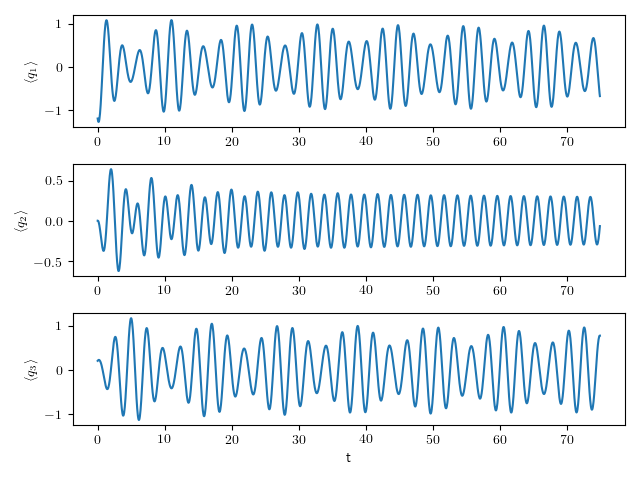
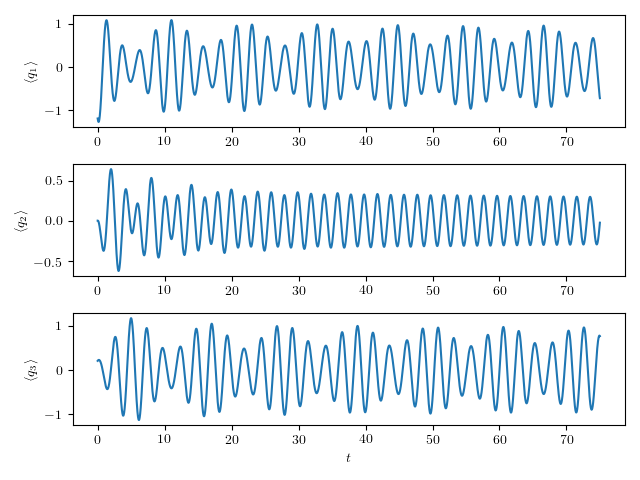
Two possible versions
One must be deleted at some point

diff --git a/Python/MomentSims.py b/Python/MomentSims.py
@@ -5,8 +5,10 @@ from matplotlib import pyplot as plt
 matplotlib.rcParams['text.usetex'] = True
 
 N = 3
-T_F = 45
+T_F = 75
 it = 15000
+it_med = it * 45//T_F
+it_short = it * 15//T_F
 dt = T_F/it
 T = np.arange(0, T_F, dt)
 
@@ -14,8 +16,8 @@ T = np.arange(0, T_F, dt)
 # should be to classify as noiseless
 quasi_ratio = 20
 
-# omega = np.array([1.2, 1, 1.8])
-omega = np.ones(N)
+omega = np.array([1.2, 1, 1.8])
+# omega = np.ones(N)
 temp = 10 * omega[1]
 gamma = 0.07 * omega[1]
 
@@ -29,7 +31,7 @@ LambdaM2 = 0.4 * omega[1] * np.array([
     [1, 0, 1],
     [0, 1, 0]
 ])
-Lambda = LambdaM2 * 4  # The adjacency matrix which we are currently investigating
+Lambda = LambdaM2  # The adjacency matrix which we are currently investigating
 
 k_m = np.max(np.sum(Lambda, 0))  # Constant to assure positivity
 HO = np.diag(omega**2 + 2 * k_m)
@@ -81,7 +83,7 @@ for i in range(N):
 # The constant vector to be added (dY/dt = B*Y + L)
 L = np.zeros(2*M + N**2)
 for i in range(N):
-    L[num(i, i)] = - D[i]/2/Omega[i]**2  # I derived a - sign, but let's try +
+    L[num(i, i)] = + D[i]/2/Omega[i]**2  # I derived a - sign, but let's try +
     L[num(i, i) + M] = D[i]/2
 
 
@@ -214,6 +216,11 @@ def calc_u(pos, mom, n):
     return U_0 * np.exp(-Gamma[n] * T)
 
 
+def calc_u_2(pos, mom, n):
+    U_0 = Omega[n]**2 * pos[num(n, n), 0] + mom[num(n, n), 0]
+    return (U_0-D[n]/Gamma[n]) * np.exp(-Gamma[n] * T) + D[n]/Gamma[n]  # Last term if the + is correct
+
+
 def calc_v(pos, mom, n, r=None):
     m = num(n, n)
     U_0 = Omega[n]**2 * pos[m, 0] + mom[m, 0]
@@ -224,13 +231,21 @@ def calc_v(pos, mom, n, r=None):
                                             B_n * np.cos(2*Omega[n]*T))
 
 
+def calc_v_2(pos, mom, n, r=None):
+    m = num(n, n)
+    B_n = Omega[n]**2 * pos[m, 0] - mom[m, 0]
+    A_n = Omega[n] * (r[(N+1)*n, 0] if r is not None else 0)
+    return np.exp(-Gamma[n]*T) * (A_n * np.sin(2*Omega[n]*T) +
+                                  B_n * np.cos(2*Omega[n]*T))
+
+
 def first_plot_combined(funcs, name):
     for n in range(N):
         plt.plot(T, funcs[n])
 
     plt.legend([f"Node {n + 1}" for n in range(N)])
     plt.ylabel(f"$\\left<{name}_i\\right>$")
-    plt.xlabel("t")
+    plt.xlabel("$t$")
     plt.show()
     
     
@@ -251,17 +266,17 @@ def first_plot_separate(funcs, name, colorized=False, mom=None):
         
         plt.ylabel(f"$\\left<{name}_{n + 1}\\right>$")
         
-    plt.xlabel("t")
+    plt.xlabel("$t$")
     plt.show()
 
 
 def second_plot_combined(funcs, name):
     for m in range(M):
-        plt.plot(T, funcs[m])
+        plt.plot(T[:it_med], funcs[m, :it_med])
 
     plt.legend([f"Node {(n, m)}" for n in range(N) for m in range(n, N)])
     plt.ylabel(f"$\\left<{name}_i {name}_j\\right>$")
-    plt.xlabel("t")
+    plt.xlabel("$t$")
     plt.show()
 
 
@@ -275,12 +290,12 @@ def second_plot_separate(funcs, name, colorized=False):
             if n == m:
                 color = color_pick(n) if colorized else ""
 
-                plt.xlabel("t")
+                plt.xlabel("$t$")
                 plt.ylabel(f"$\\left<{name}_{n + 1}^2\\right>$")
             else:
                 plt.ylabel(f"$\\left<{name}_{n + 1} {name}_{m + 1}\\right>$")
 
-            plt.plot(T, funcs[num(n, m)], color)
+            plt.plot(T[:it_short], funcs[num(n, m), :it_short], color)
     
     plt.show()
 
@@ -291,15 +306,15 @@ def second_plot_diagonal(pos, name, colorized=False, mom=None, r=None):
 
         color = color_pick(n) if colorized else ""
         
-        plt.plot(T, pos[num(n, n)], color)
+        plt.plot(T[:it_med], pos[num(n, n), :it_med], color)
         
         if mom is not None:
-            plt.plot(T, (calc_u(pos, mom, n) + calc_v(pos, mom, n, r))/2/Omega[n]**2, "k:")
+            plt.plot(T[:it_med], ((calc_u_2(pos, mom, n) + calc_v_2(pos, mom, n, r))/2/Omega[n]**2)[:it_med], "k:")
             plt.legend(["Solution", "Expected"])
         
         plt.ylabel(f"$\\left<{name}_{n + 1}^2\\right>$")
 
-    plt.xlabel("t")
+    plt.xlabel("$t$")
     plt.show()
 
 
@@ -310,9 +325,10 @@ def second_plot_cross(funcs, name):
         for m in range(n + 1, N):
             plt.subplot(M - N, 1, index)
             index += 1
-            plt.plot(T, funcs[num(n, m)])
+            plt.plot(T[:it_med], funcs[num(n, m), :it_med])
             plt.ylabel(f"$\\left<{name}_{n + 1}{name}_{m + 1}\\right>$")
-            
+    
+    plt.xlabel("$t$")
     plt.show()
 
 
@@ -322,14 +338,14 @@ def second_plot_u(qq, pp, name1, name2, colorized=False, expect=False):
 
         color = color_pick(n) if colorized else ""
         
-        plt.plot(T, Omega[n]**2 * qq[num(n, n)] + pp[num(n, n)], color)
+        plt.plot(T[:it_med], (Omega[n]**2 * qq[num(n, n)] + pp[num(n, n)])[:it_med], color)
         plt.ylabel(f"$\\left<\\Omega_{n + 1}^2 {name1}_{n + 1}^2 + {name2}_{n + 1}^2\\right>$")
         
         if expect:
-            plt.plot(T, calc_u(qq, pp, n), "k:")
+            plt.plot(T[:it_med], calc_u_2(qq, pp, n)[:it_med], "k:")
             plt.legend(["Solution", "Expected"])
             
-    plt.xlabel("t")
+    plt.xlabel("$t$")
     plt.show()
 
 
@@ -339,16 +355,16 @@ def second_plot_v(qq, pp, name1, name2, colorized=False, expect=False):
 
         color = color_pick(n) if colorized else ""
 
-        plt.plot(T, Omega[n]**2 * qq[num(n, n)] - pp[num(n, n)], color)
-        plt.plot(T, -C[n] * np.ones(it),
+        plt.plot(T[:it_med], (Omega[n]**2 * qq[num(n, n)] - pp[num(n, n)])[:it_med], color)
+        plt.plot(T[:it_med], -C[n] * np.ones(it)[:it_med],
                  linestyle="dashed", color="lightgray")
         plt.ylabel(f"$\\left<\\Omega_{n + 1}^2 {name1}_{n + 1}^2 - {name2}_{n + 1}^2\\right>$")
 
         if expect:
-            plt.plot(T, calc_v(qq, pp, n), "k:")
+            plt.plot(T[:it_med], calc_v(qq, pp, n)[:it_med], "k:")
             plt.legend(["Solution", "Offset (expected)", "Expected"])
 
-    plt.xlabel("t")
+    plt.xlabel("$t$")
     plt.show()
 
 
@@ -368,9 +384,9 @@ first_plot_separate(nodes, "q")
 first_plot_separate(modes, "Q", True)
 
 nodes, modes, momenta = second_order()
-# second_plot_separate(nodes, "q")
-# second_plot_separate(modes, "Q", True)
-# second_plot_diagonal(modes, "Q", True)
-# second_plot_cross(modes, "Q")
-# second_plot_u(modes, momenta, "Q", "P", True, True)
-# second_plot_v(modes, momenta, "Q", "P", True, True)
+# second_plot_separate(nodes, "q")  # Not used in report
+second_plot_separate(modes, "Q", True)
+second_plot_diagonal(modes, "Q", True, momenta)
+second_plot_cross(modes, "Q")
+second_plot_u(modes, momenta, "Q", "P", True, True)
+# second_plot_v(modes, momenta, "Q", "P", True, True)  # Not used in report

diff --git a/Python/DensitySims.py b/Python/DensitySims.py
@@ -1,0 +1,10 @@
+def com(a, b):
+    return a * b - b * a
+
+
+def anti(a, b):
+    return a * b + b * a
+
+
+def super_op(rho):
+    pass
